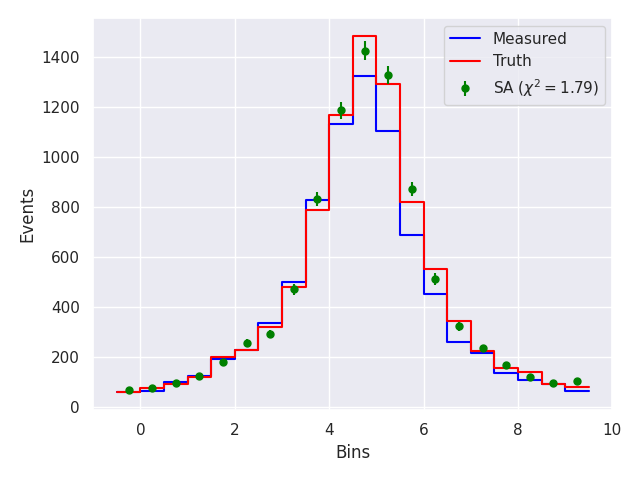
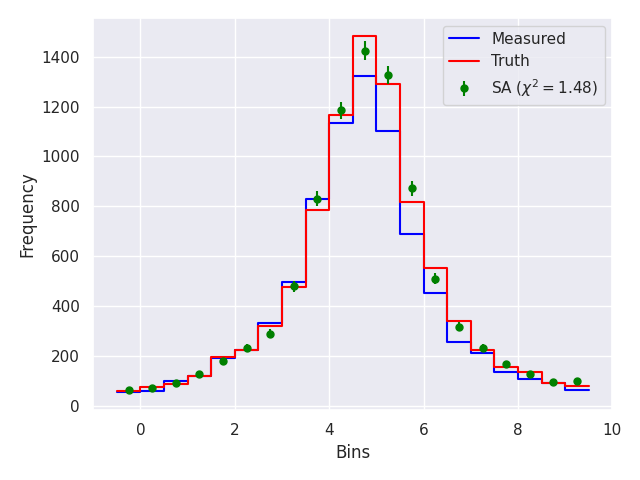
Added different markers type in studies plot.

diff --git a/studies/functions/comparisons.py b/studies/functions/comparisons.py
@@ -107,20 +107,20 @@ def plot_comparisons(data, distr, truth, bins, min_bin, max_bin):
             )
         elif method == "B2B":
             plot_errorbar(
-                bin_edges - marker_offset, unfolded, "blue", "o", method, chi2_dof
+                bin_edges - marker_offset, unfolded, "blue", "v", method, chi2_dof
             )
         elif method == "SVD":
             plot_errorbar(
-                bin_edges - marker_offset, unfolded, "green", "o", method, chi2_dof
+                bin_edges - marker_offset, unfolded, "green", "s", method, chi2_dof
             )
         elif method == "SA":
             plot_errorbar(
-                bin_edges - marker_offset, unfolded, "purple", "o", method, chi2_dof
+                bin_edges - marker_offset, unfolded, "purple", "*", method, chi2_dof
             )
 
         # Plot settings
         plt.xlabel("Bins")
-        plt.ylabel("Unfolded distribution")
+        plt.ylabel("Frequency")
         plt.tight_layout()
         plt.legend()
 
